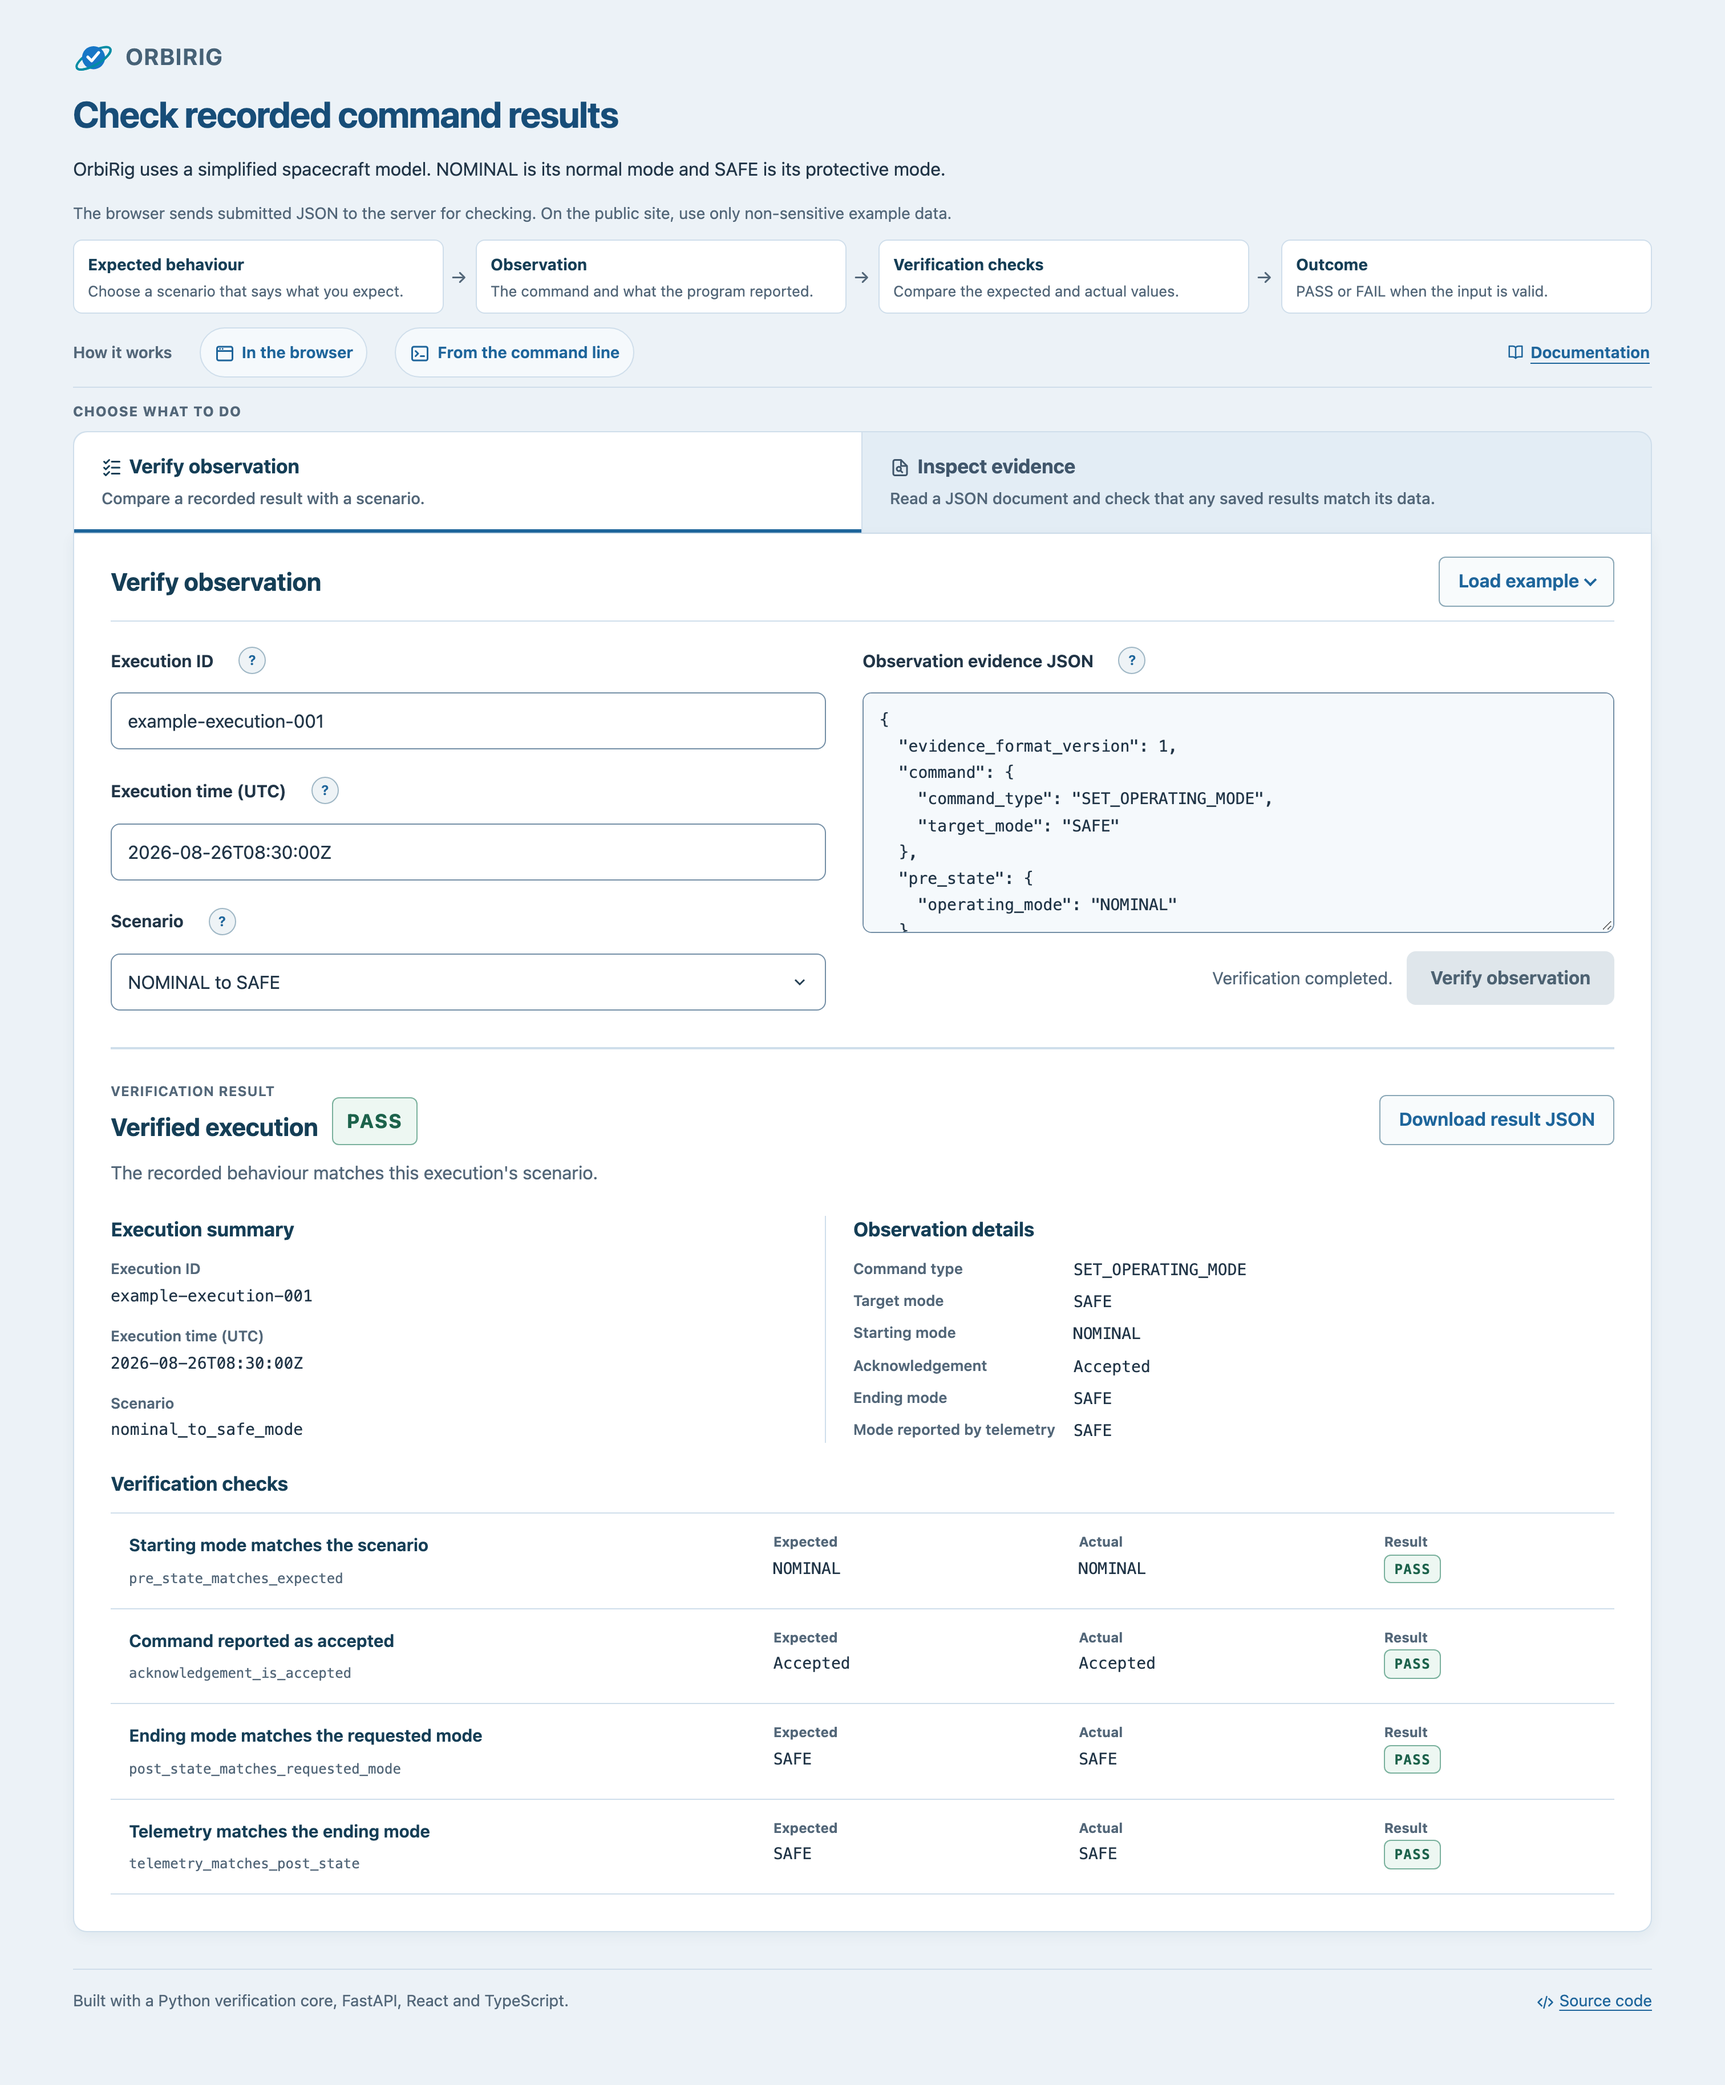
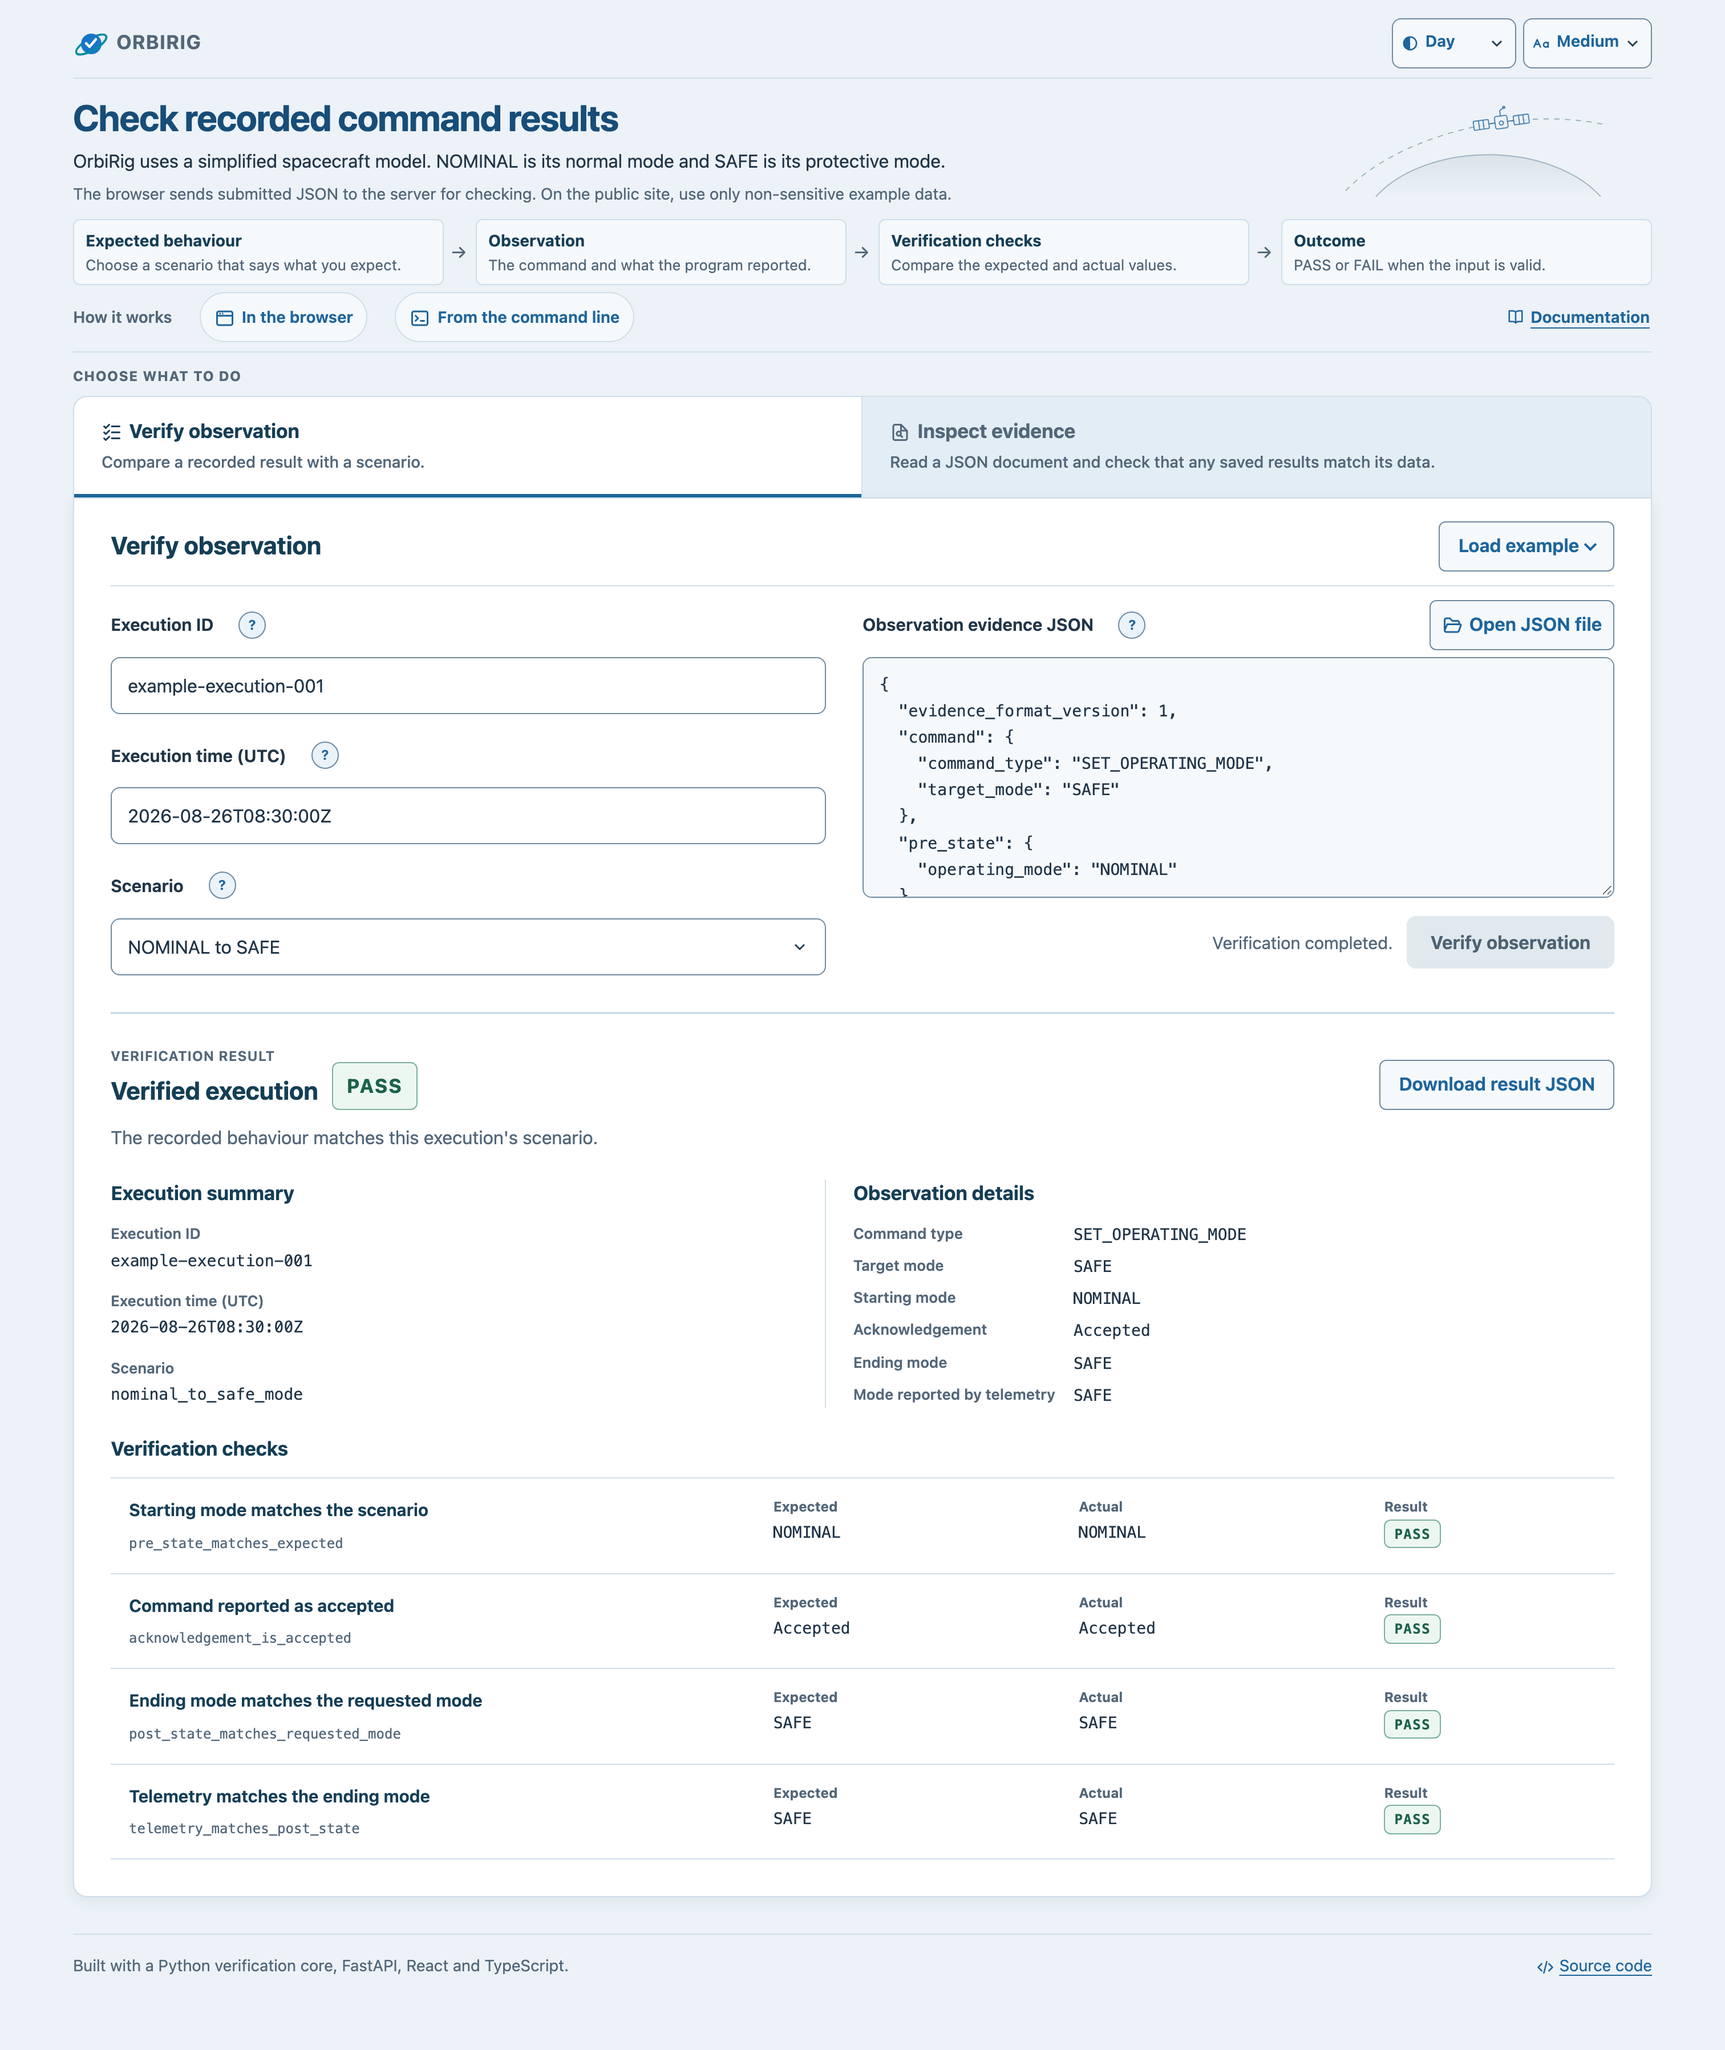
docs(web): explain appearance defaults and refresh the screenshot
The web interface guide used a screenshot of the previous header.
The screenshot now shows the Day theme, Medium text and a PASS
result for the standard verification example.

The guide now explains the defaults and what happens when browser
storage is unavailable. It also notes that changing either setting
preserves current inputs and results. The architecture guide now
describes how the startup script applies preferences before React
loads and how the settings component handles later changes.

diff --git a/docs/web-interface.md b/docs/web-interface.md
@@ -4,7 +4,9 @@ In the [OrbiRig web interface](https://orbirig-evidence-inspector.onrender.com/)
 
 The browser sends submitted JSON to the server for checking. On the public site, use only non-sensitive example data.
 
-In the header, **Color theme** offers **System**, **Day** and **Night**. **System** follows your device's light or dark setting. **Text size** offers **Small**, **Medium** and **Large**, with **Medium** selected by default. Your browser remembers the choices when it allows local storage.
+In the header, **Color theme** defaults to **System**, which follows your device's light or dark setting. Choose **Day** or **Night** to keep a fixed palette. **Text size** offers **Small**, **Medium** and **Large**, with **Medium** selected by default.
+
+Your browser remembers both choices when it allows local storage. When storage is unavailable, the choices apply for the current page. Changing either setting preserves your current inputs and results.
 
 On narrow screens, **Open JSON file** appears as a folder icon beside the JSON field.
 
@@ -16,9 +18,9 @@ On narrow screens, **Open JSON file** appears as a folder icon beside the JSON f
 
 Choose a UTF-8 file of up to 4 MiB without a byte-order mark (BOM). Opening it fills only **Observation evidence JSON**. OrbiRig asks before replacing edited text. When you submit, the [request size limit](#request-size-limit) includes the execution metadata and the encoded observation.
 
-**Standard example** uses the selected scenario or **NOMINAL to SAFE** when you have not selected one. The screenshot shows the default example after you choose **Verify observation**.
+**Standard example** uses the selected scenario or **NOMINAL to SAFE** when you have not selected one. The screenshot shows the completed default example in **Day** with **Medium** text.
 
-![The verification form and a PASS result for the NOMINAL-to-SAFE example](images/orbirig-web-interface.png)
+![Day theme and Medium text above the verification form and a PASS result for the NOMINAL-to-SAFE example](images/orbirig-web-interface.png)
 
 **Failing example** fills in an observation whose telemetry (a separate report of the operating mode) disagrees with the recorded ending mode. Verifying it gives `FAIL`.
 

diff --git a/docs/architecture.md b/docs/architecture.md
@@ -68,3 +68,4 @@ The [evidence format reference](evidence-formats.md) lists the stored fields, th
 | [Completion feedback](../frontend/src/useWorkflowFeedback.ts) | Coordinate announcements, focus and scrolling, giving up automatic focus when the user moves elsewhere. |
 | [Evidence details](../frontend/src/EvidenceDetails.tsx) | Display observations, verification checks and sequence records in the order returned by Python. |
 | [Field help](../frontend/src/FieldHelp.tsx) and [help state](../frontend/src/useVerificationFieldHelp.ts) | Share the field-tooltip markup and manage deliberate opening, dismissal and a single pinned tooltip. |
+| [Page startup](../frontend/index.html) and [appearance settings](../frontend/src/AppearanceSettings.tsx) | Apply the theme and text size before React loads, then handle changes while the page is open. |
